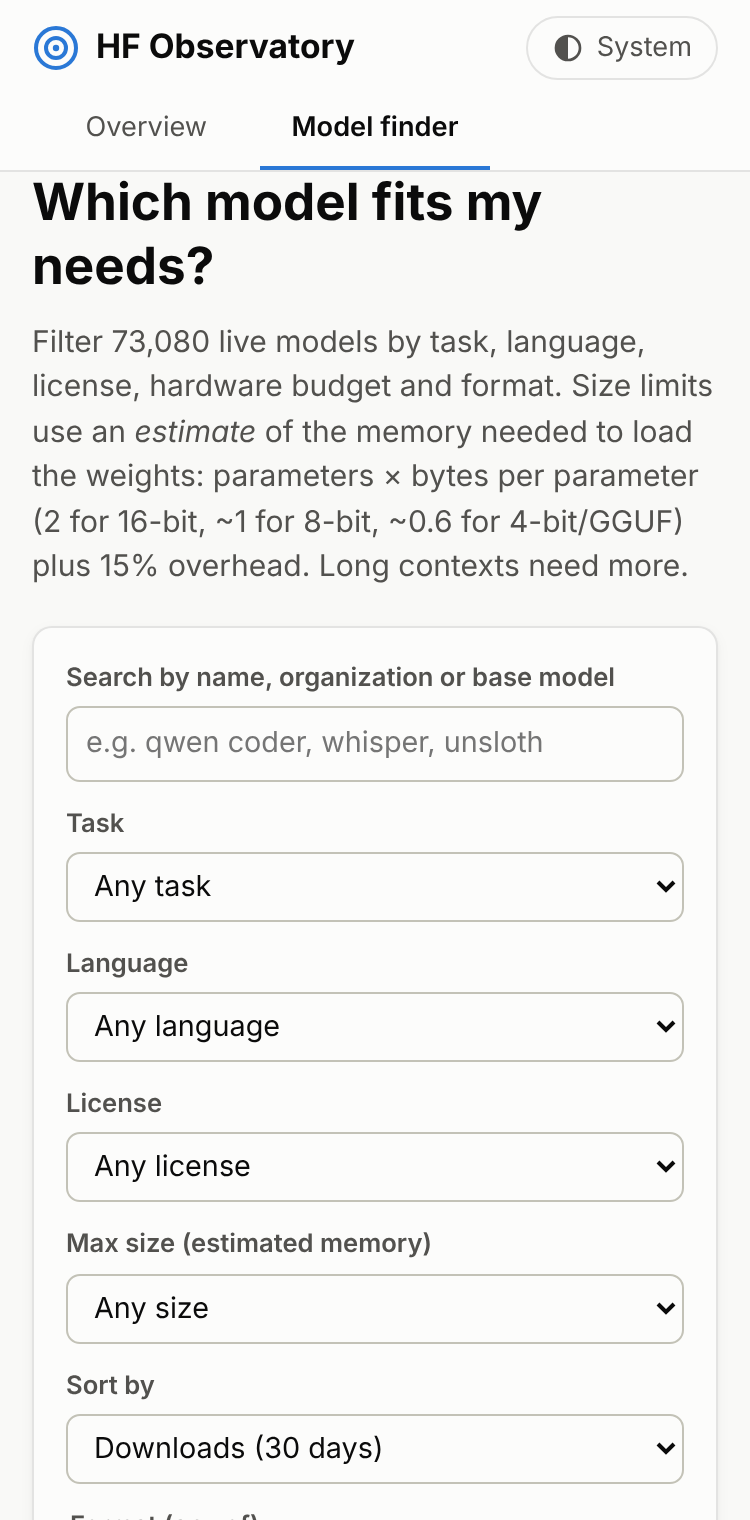
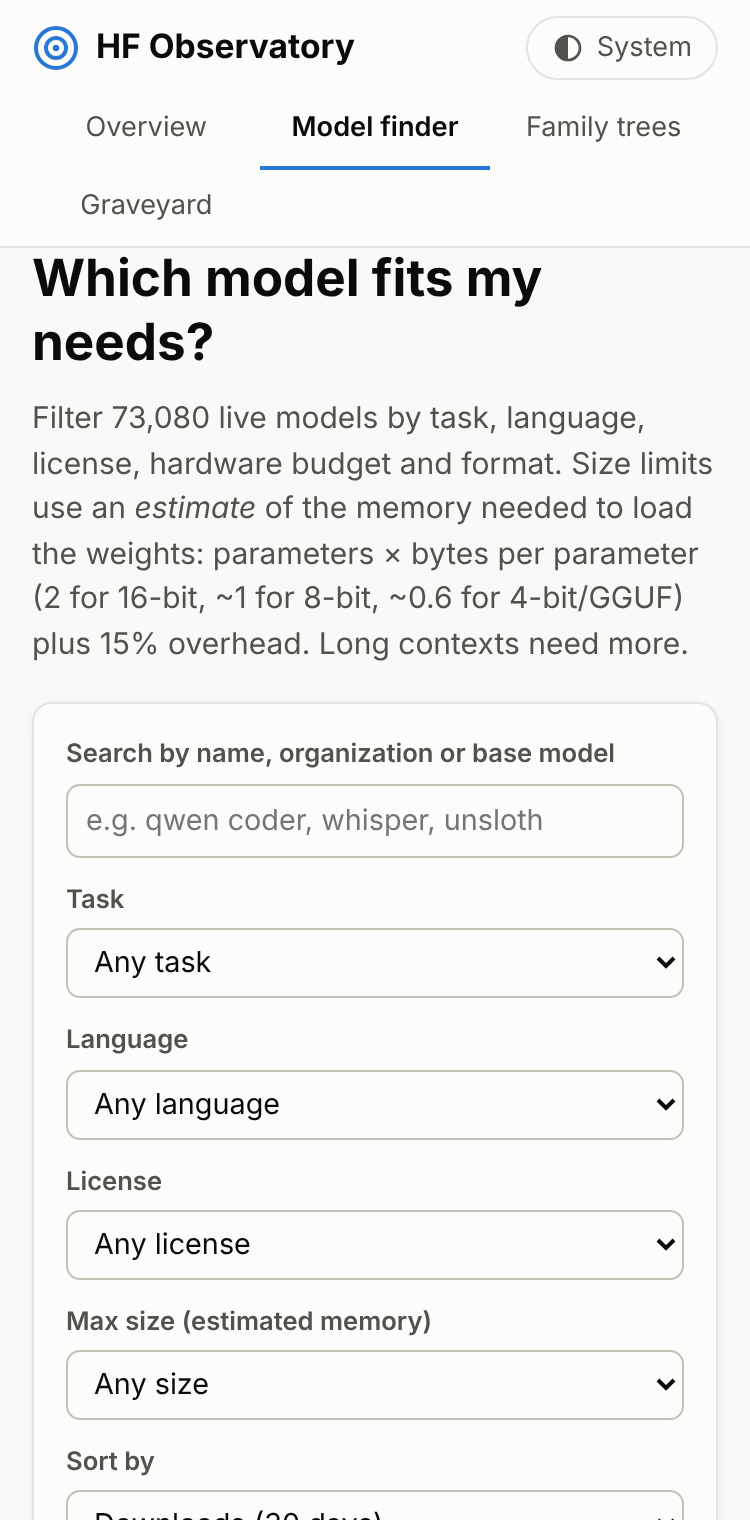
README and screenshots for Graveyard and Family trees
Claude-Session: https://claude.ai/code/session_01RavysqbENpYM9jLsPXoHpd

diff --git a/README.md b/README.md
@@ -13,12 +13,18 @@ It is built entirely on the open dataset
 |---|---|
 | **Overview** | Totals (live, removed, gated, % open license), top publishers by model count and by 30-day downloads, tasks, licenses, sizes, formats, languages, families and models created per week. |
 | **Model finder** | “Which model fits my needs?” Filter by text, task, language, commercial-use license, hardware budget (“fits in 16 GB”), format (GGUF, MLX, ONNX…), hide gated models; sort by downloads, likes, trending, newest or size. Each result has a short English model card and a link to the Hub. Filters are kept in the URL, so searches can be shared. |
+| **Family trees** | Which base models spawn the most derivatives (fine-tunes, quantizations, adapters, merges), derivatives by family, and a navigable radial graph + collapsible tree per base model. |
+| **Graveyard** | Models removed from the Hub: who removes the most, how long they lived, removals per week, and how gated/unclear-license models compare with live ones. Searchable list of every removed model. |
 
 ![Overview](docs/screenshots/overview.png)
 
 | Model finder | Mobile, dark theme |
 |---|---|
 | ![Model finder](docs/screenshots/finder.png) | ![Model finder on mobile](docs/screenshots/finder-mobile.png) |
+
+| Family trees | Graveyard |
+|---|---|
+| ![Family trees](docs/screenshots/families.png) | ![Graveyard](docs/screenshots/graveyard.png) |
 
 ## How it works
 
@@ -83,6 +89,10 @@ npm run screenshots                       # refresh docs/screenshots/
   short English descriptions are generated from structured metadata, and the schema is translated on the
   site’s *About the data* page.
 * The radar started in August 2026, so anything earlier is reconstructed from creation dates.
+* Family trees use the Hub tags `base_model:<relation>:<parent>`; models that only declare `base_model` count as
+  “other derivatives”. Parents are matched case-insensitively and only live models are counted as derivatives.
+  Very large families are trimmed in the tree (top 120 children of the base, top 25 below that, 4 generations).
+* Removal dates are when the radar *detected* the 404, not when the author deleted the model.
 
 ## License and attribution
 
